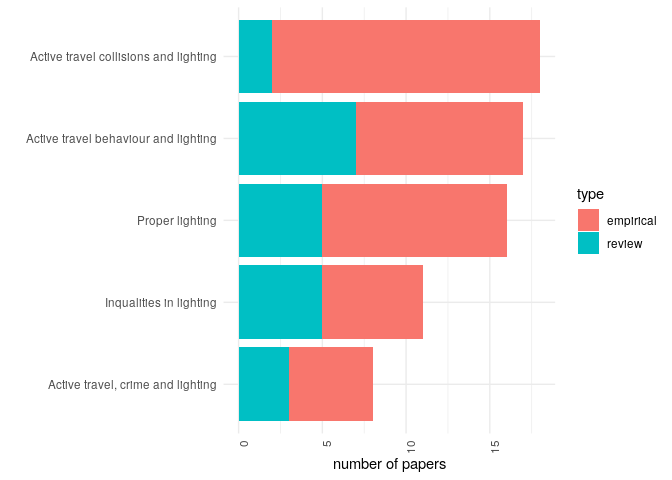
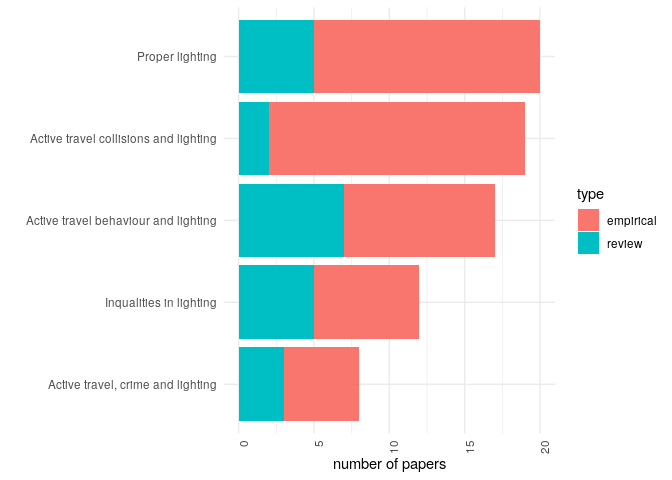
update

diff --git a/README.md b/README.md
@@ -856,6 +856,21 @@ empirical
 </tr>
 <tr>
 <td style="text-align:left;">
+John M. Sullivan and Flannagan (2007)
+</td>
+<td style="text-align:right;">
+2007
+</td>
+<td style="text-align:left;">
+Determining the potential safety benefit of improved lighting in three
+pedestrian crash scenarios
+</td>
+<td style="text-align:left;">
+empirical
+</td>
+</tr>
+<tr>
+<td style="text-align:left;">
 Siddiqui, Chu, and Guttenplan (2006)
 </td>
 <td style="text-align:right;">
@@ -1246,6 +1261,21 @@ empirical
 </tr>
 <tr>
 <td style="text-align:left;">
+Cheng et al. (2018)
+</td>
+<td style="text-align:right;">
+2018
+</td>
+<td style="text-align:left;">
+Effect of environmental factors on how older pedestrians detect an
+upcoming step
+</td>
+<td style="text-align:left;">
+empirical
+</td>
+</tr>
+<tr>
+<td style="text-align:left;">
 Annear et al. (2014)
 </td>
 <td style="text-align:right;">
@@ -1451,6 +1481,21 @@ empirical
 </tr>
 <tr>
 <td style="text-align:left;">
+Saad, Portnov, and Trop (2021)
+</td>
+<td style="text-align:right;">
+2021
+</td>
+<td style="text-align:left;">
+Saving energy while maintaining the feeling of safety associated with
+urban street lighting
+</td>
+<td style="text-align:left;">
+empirical
+</td>
+</tr>
+<tr>
+<td style="text-align:left;">
 B. A. Portnov et al. (2020)
 </td>
 <td style="text-align:right;">
@@ -1554,6 +1599,20 @@ review
 </tr>
 <tr>
 <td style="text-align:left;">
+Cellucci et al. (2016)
+</td>
+<td style="text-align:right;">
+2016
+</td>
+<td style="text-align:left;">
+Lighting distribution affects pedestrians’ sense of security
+</td>
+<td style="text-align:left;">
+empirical
+</td>
+</tr>
+<tr>
+<td style="text-align:left;">
 Wu and Kim (2016)
 </td>
 <td style="text-align:right;">
@@ -1612,6 +1671,21 @@ review
 </tr>
 <tr>
 <td style="text-align:left;">
+Haans and Kort (2012)
+</td>
+<td style="text-align:right;">
+2012
+</td>
+<td style="text-align:left;">
+Light distribution in dynamic street lighting: Two experimental studies
+on its effects on perceived safety, prospect, concealment, and escape
+</td>
+<td style="text-align:left;">
+empirical
+</td>
+</tr>
+<tr>
+<td style="text-align:left;">
 Fotios, S and Cheal, C. (2010)
 </td>
 <td style="text-align:right;">
@@ -1623,6 +1697,21 @@ lamp colour characteristics
 </td>
 <td style="text-align:left;">
 review
+</td>
+</tr>
+<tr>
+<td style="text-align:left;">
+John M. Sullivan and Flannagan (2007)
+</td>
+<td style="text-align:right;">
+2007
+</td>
+<td style="text-align:left;">
+Determining the potential safety benefit of improved lighting in three
+pedestrian crash scenarios
+</td>
+<td style="text-align:left;">
+empirical
 </td>
 </tr>
 <tr>
